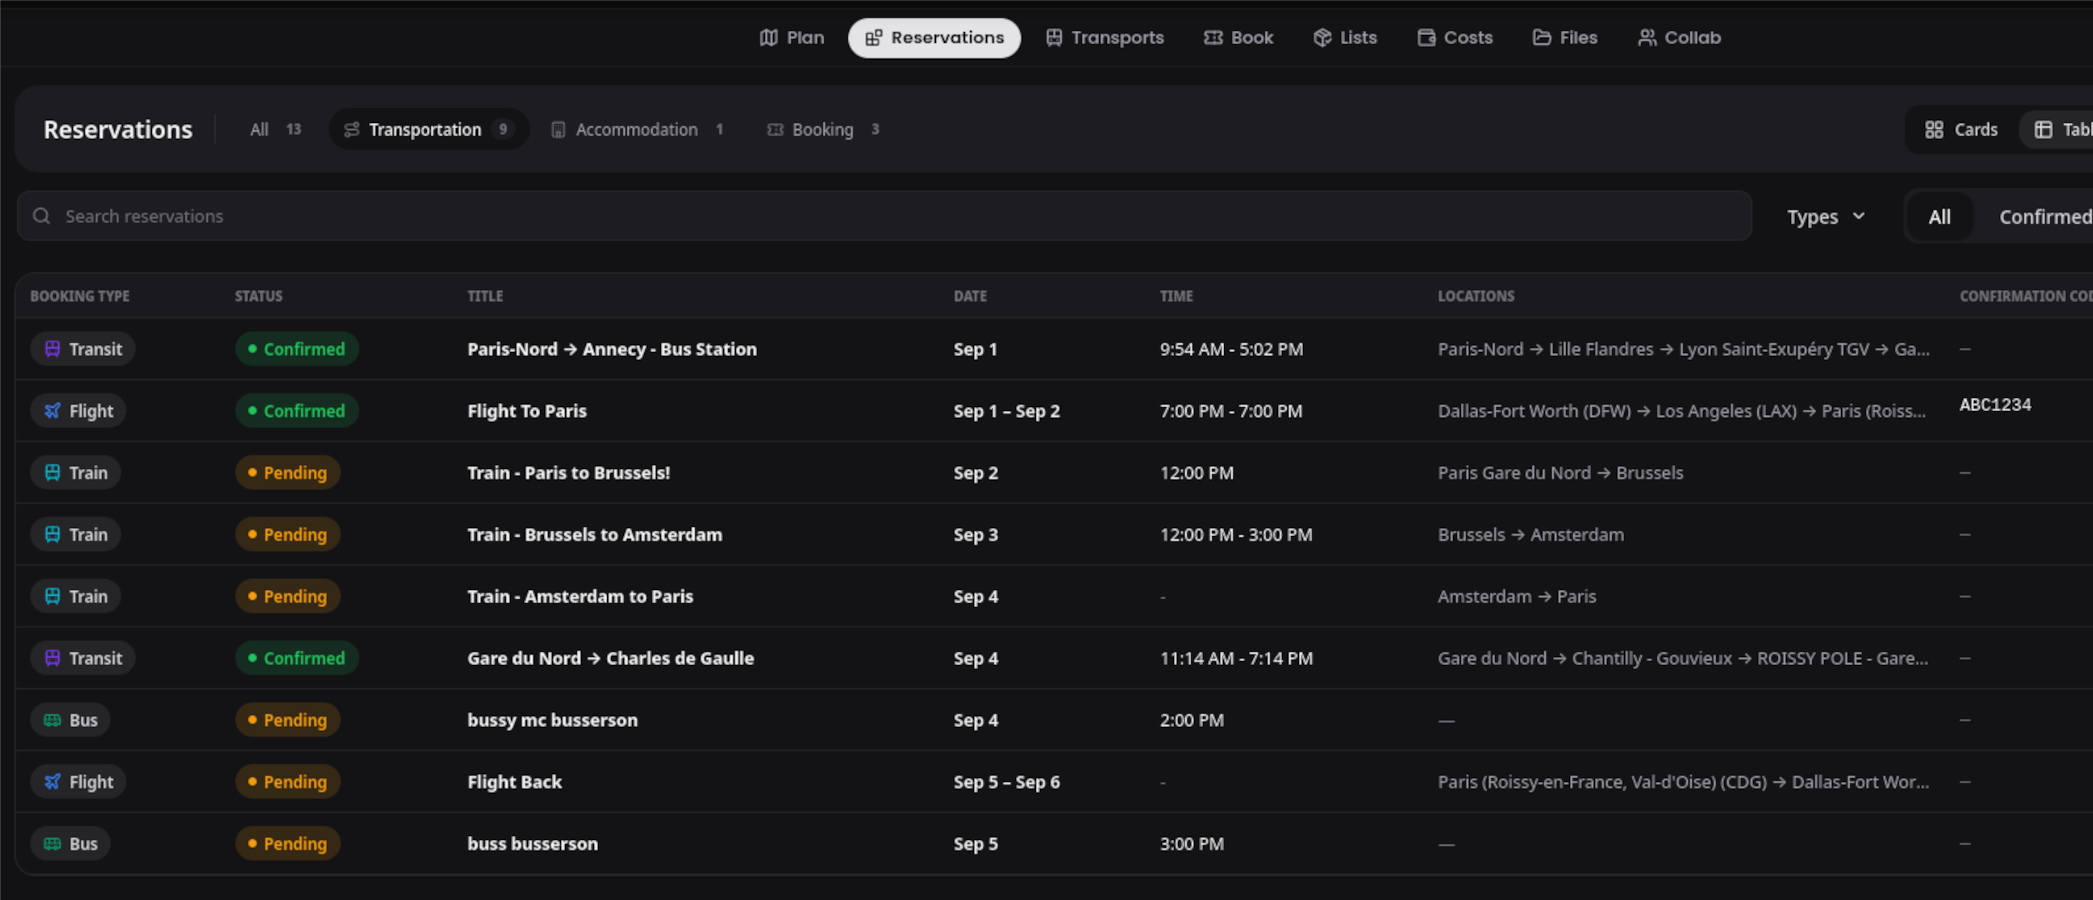
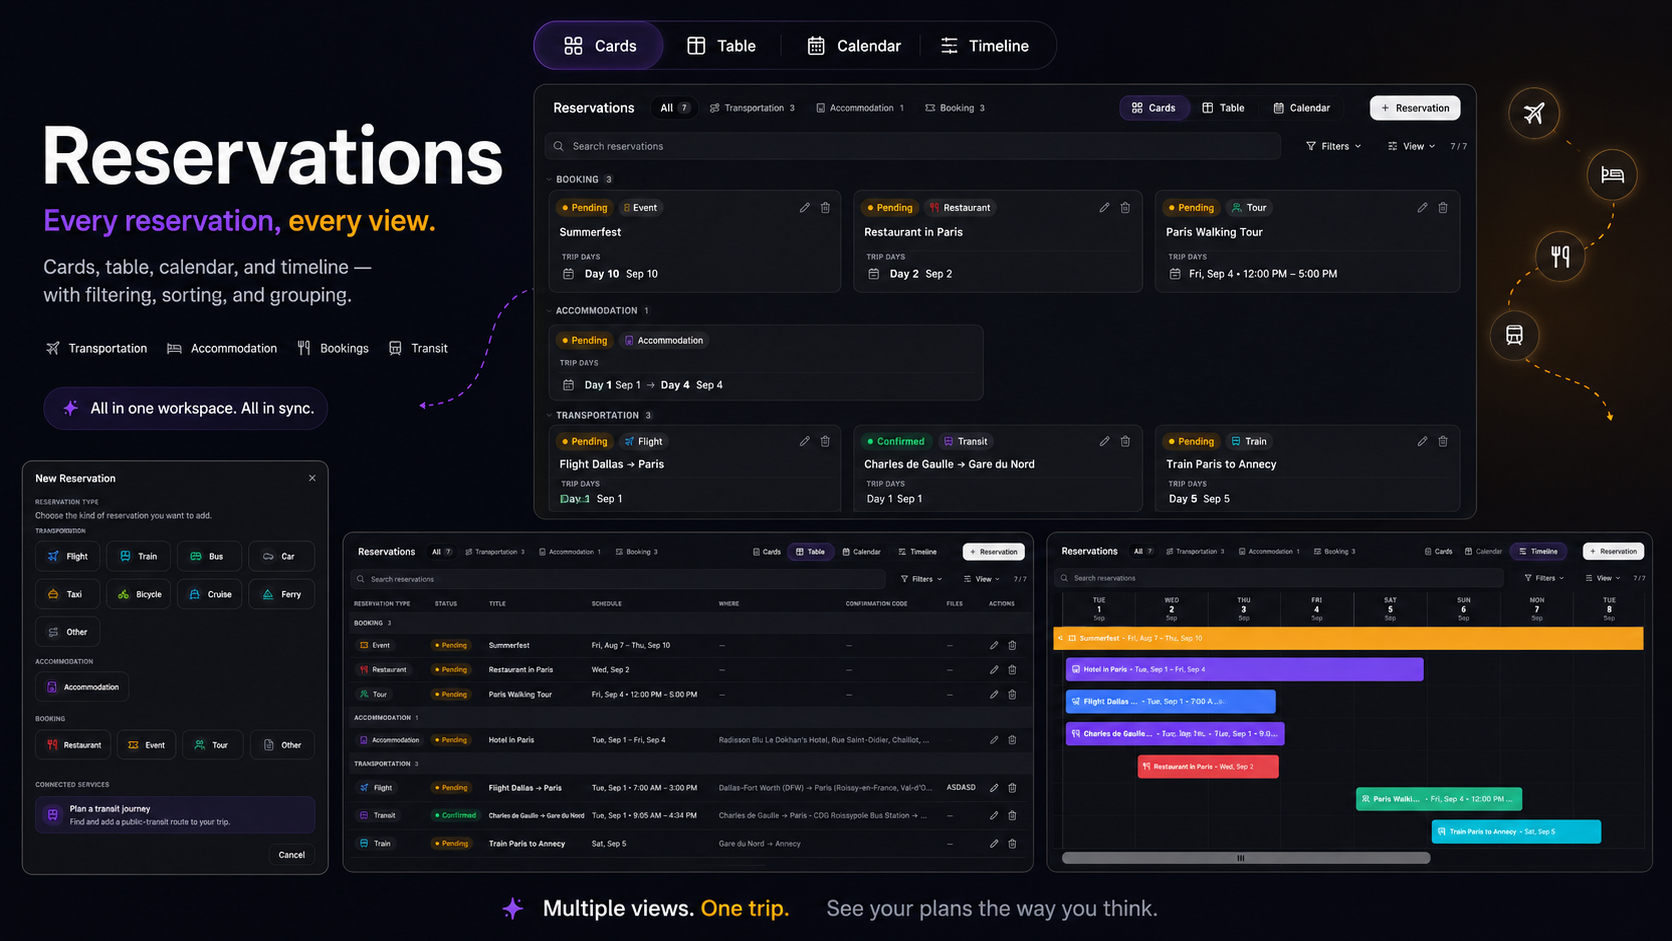
feat: upgraded screenshot.png and readme text

diff --git a/README.md b/README.md
@@ -1,5 +1,13 @@
 # TREK Reservations Plugin
-Enhanced reservations module for TREK.
+
+**Every reservation, every view.**
+
+Reservations provides a unified workspace for managing transportation,
+accommodation, transit, and other trip bookings in TREK.
+
+View the same reservations as cards, a structured table, a calendar, or a
+timeline. Search, filter, sort, and group them without switching between
+separate trip sections.
 
 ## Screenshots
 
@@ -7,23 +15,22 @@ Enhanced reservations module for TREK.
 
 ## What it does
 
-Reservations gives each TREK trip a single workspace for transportation, accommodation, and other bookings.
+Reservations brings transportation, accommodation, transit, restaurants, events, tours, and other bookings into a single workspace.
 
-**Features**
-- Create and edit transportation, transit, accommodation, and general bookings.
-- View every reservation together instead of switching between the built-in **Transport** and **Book** tabs.
-- Switch between card, table, and calendar views.
-- Search reservations with free text, or filter them by the criteria you need.
+You can view the same reservation data in four different ways:
 
+- **Cards** for quick visual browsing
+- **Table** for dense, structured information
+- **Calendar** for date-based planning
+- **Timeline** for understanding duration and overlap
 
-**Current limitations**
+Every view supports the same search, filtering, sorting, and grouping tools, so you can organize reservations without switching between separate trip sections.
 
-- KItinerary-backed import from file. LLM-backed is more likely through the plugin SDK, but PDF parsing and OCR would have to be handled by our plugin. Maintaining a separate independent interface with an AI platform would be the other option.
-- Linked-item navigation. For example with linked costs. Until a navigation API is implemented on the plugin SDK (with resource referencing like costId, fileId), it will not be possible.
-- Managing file links on reservations. SDK has exposed only a way to create file links, but not how to edit/delete them from the `file_links` table.
-- Managing plugin settings. In our case we need a Google Places API key to replicate the current functionality. Instance-scoped settings are still not modifiable from the UI. Another (probably very bad) solution would be to share that API key with our plugin through a permission. A better solution would be to have a mapService interface on the plugin SDK so TREK would fully own and centralize that functionality.
-- Pulling user-specific settings like: blur booking codes, preferred time format, etc.
-- Storing session state for things like persisting filters and views during trip tab changes.
+You can also:
+
+- Create, edit, and delete reservations
+- Customize which fields appear in each view
+- Plan and add public-transit journeys through connected services
 
 ## Permissions
 
@@ -73,6 +80,39 @@ await fetch('/api/admin/plugins/reservations/config', {
     return response.json()
 })
 ```
+
+## Current limitations and SDK constraints
+
+Some functionality is currently limited by the APIs exposed through the TREK
+plugin SDK.
+
+- **Reservation import from files**  
+  Automated import through KItinerary is not currently available to plugins.
+  An LLM-assisted importer may be possible, but PDF parsing and OCR would need
+  to be handled by the plugin or an external service.
+
+- **Navigation to linked resources**  
+  The plugin cannot currently navigate directly to related resources such as
+  costs or files. This requires a plugin navigation API that can reference
+  resources such as `costId` or `fileId`.
+
+- **Managing linked files**  
+  The SDK allows plugins to create file links, but does not currently expose
+  everything needed to edit or remove links from the `file_links` table.
+
+- **Plugin settings in the TREK interface**  
+  Reservations can optionally use Google Places, but instance-scoped plugin
+  settings cannot currently be managed through the TREK UI. Administrators
+  must configure the API key through the plugin configuration endpoint.
+
+- **Access to user preferences**  
+  Plugins cannot currently read preferences such as confirmation-code
+  blurring or the user's preferred time format.
+
+- **Persisting workspace state**  
+  Filters, grouping, sorting, and the selected view cannot currently be
+  preserved when navigating between trip tabs because plugins do not have
+  access to persistent session state.
 
 ## License
 